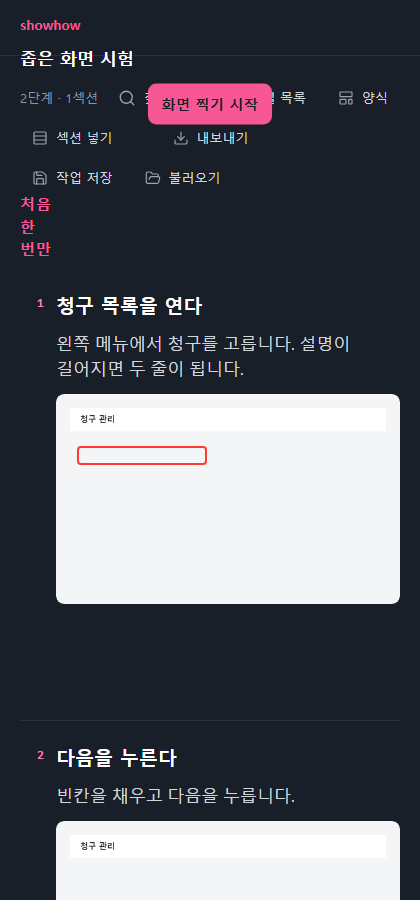
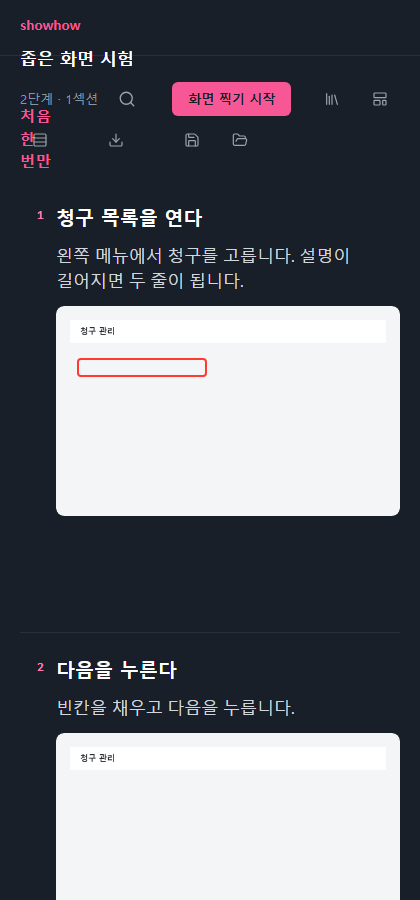
찍기 단추가 화면 가운데 혼자 떠 있던 것을 고쳤다
영웅님 지적: "화면 찍기 시작 저 버튼이 저기 있는게 문젠거 같은데 혼자 동떨어져있음".
글은 왼쪽 축인데 단추만 가운데 축이라 축이 둘이었다(규격 §14).

상태마다 자리를 다르게 두되, 어느 상태에서도 홀로 뜨지 않게 했다.
- 빈 화면: 큰 가운데 단추 그대로. 할 일이 그것 하나뿐이라 주인공이 맞다.
- 단계가 있고 안 찍는 중: 위 줄로 들어간다. 조용한 글자 단추들 사이에서 하나만 채워진다.
- 찍는 중: 딸린 단추가 넷이라 위 줄에 다 못 넣는다. 본문과 같은 축에 얇은 한 줄로 눕힌다.
  채운 단추는 «지금 찍기» 하나뿐이고 «자동 촬영 켜짐»은 점 하나로 상태만 알린다.

세 자리(위 줄 / 목록 머리 / 아래 고정 띠)를 실제로 옮겨 찍어 견주고 골랐다.
아래 띠는 사진을 가려서 탈락했다.

같이 고친 것
- 단추가 하나 늘어 가로 1100px 에서 위 줄이 67px 밀렸다. 좁아지면 이름표부터 접고
  아이콘과 툴팁을 남긴다. 접는 차례는 자주 쓰는 순서의 역순, 찍기 이름표는 끝까지 남는다.
- 키보드로 찍기에 못 닿았다. 검사가 «shoot 이라는 이름의 단추»를 찾고 있었는데
  «보이는 찍기 단추»를 찾도록 고쳤다. 초점 검사도 같은 단추를 재게 했다.

검사 498건 통과 · 실패 없음

diff --git a/index.html b/index.html
@@ -544,6 +544,39 @@
   #helpin dd { font: var(--typography-6-regular); color: var(--colors-label-neutral); }
   #helpin .lead { margin: var(--spacing-6) 0 var(--spacing-5); color: var(--colors-label-assistive); font: var(--typography-7-regular); }
   #findwrap { display: inline-flex; align-items: center; }
+  /* 일을 시작하면 찍기도 다른 동작과 한 줄에 선다. 가운데 혼자 뜬 단추는 축을 하나 더 만든다. */
+  #shoot-top { display: none; }
+  /* 위 줄이 밀리기 시작하면 덜 중요한 이름표부터 접는다. 아이콘과 툴팁은 남는다.
+     접는 차례는 그 단추를 얼마나 자주 쓰는지 순이다 — 찍기 이름표는 끝까지 남긴다. */
+  @media (max-width: 1280px) { #btn-form .lbl, #btn-sec .lbl { display: none; } }
+  @media (max-width: 1140px) { #btn-box .lbl, #btn-out .lbl { display: none; } }
+  @media (max-width: 1040px) { #btn-save .lbl, #btn-open .lbl, #btn-find .lbl { display: none; } }
+  body.working:not(.capturing) #shoot-top {
+    display: inline-flex; margin-left: var(--spacing-4);
+    background: var(--colors-primary-normal); color: var(--colors-label-inverse);
+    font-weight: 600; padding: 0 var(--spacing-4); height: 34px; border-radius: var(--radius-sm);
+  }
+  body.working:not(.capturing) #shoot-top:hover { background: var(--colors-primary-strong, var(--colors-primary-normal)); }
+  body.working:not(.capturing) #shootwrap { display: none; }
+  /* 찍는 중에는 딸린 단추가 넷이라 위 줄에 다 못 넣는다. 얇은 한 줄로 눕힌다. */
+  body.capturing #shootwrap {
+    max-width: var(--read); margin: 0 auto var(--spacing-8);   /* 본문과 같은 축에 선다 */
+    padding: var(--spacing-4) 0;
+    display: flex; align-items: center; gap: var(--spacing-3); flex-wrap: wrap;
+    text-align: left; border-bottom: 1px solid var(--colors-line-normal);
+  }
+  /* 이 줄에서 채운 단추는 «지금 찍기» 하나뿐이다. 켜짐 표시는 상태이지 동작이 아니다. */
+  body.capturing #autowrap .tool.on {
+    background: none; color: var(--colors-label-brand); font-weight: 600;
+  }
+  body.capturing #autowrap .tool.on::before {
+    content: ""; display: inline-block; width: 6px; height: 6px; border-radius: var(--radius-full);
+    background: var(--colors-primary-normal); margin-right: var(--spacing-2); vertical-align: 1px;
+  }
+  body.capturing #shootsub, body.capturing #shootpick { display: none; }
+  body.capturing #shoot { height: 34px; padding: 0 var(--spacing-4); font-size: var(--typography-7-size);
+    border-radius: var(--radius-sm); transform: none; }
+  body.capturing #autowrap { margin-top: 0 !important; }
   #findwrap[hidden] { display: none; }   /* id 로 display 를 못박으면 hidden 속성이 안 먹는다 */
   /* 찾기 줄은 위 줄 아래에 따로 눕는다. 위 줄에 밀어 넣으면 글자끼리 겹친다. */
   #findbar {
@@ -1027,15 +1060,16 @@
   <input id="docname" value="새 매뉴얼" aria-label="매뉴얼 이름">
   <span class="hint" id="counthint"></span>
   <span id="findwrap">
-    <button id="btn-find" class="tbtn" aria-expanded="false" title="단계 찾기 (Ctrl+F)"><svg class="ico" width="18" height="18" viewBox="0 0 24 24" fill="none" stroke="currentColor" stroke-width="1.8" stroke-linecap="round" stroke-linejoin="round" aria-hidden="true"><circle cx="11" cy="11" r="8" /> <path d="m21 21-4.3-4.3" /></svg>찾기</button>
+    <button id="btn-find" class="tbtn" aria-expanded="false" title="단계 찾기 (Ctrl+F)"><svg class="ico" width="18" height="18" viewBox="0 0 24 24" fill="none" stroke="currentColor" stroke-width="1.8" stroke-linecap="round" stroke-linejoin="round" aria-hidden="true"><circle cx="11" cy="11" r="8" /> <path d="m21 21-4.3-4.3" /></svg><span class="lbl">찾기</span></button>
   </span>
+  <button class="tbtn go" id="shoot-top" title="화면 찍기 시작"><span class="lbl">화면 찍기 시작</span></button>
   <span class="grow"></span>
-  <button class="tbtn" id="btn-box"><svg class="ico" width="16" height="16" viewBox="0 0 24 24" fill="none" stroke="currentColor" stroke-width="1.8" stroke-linecap="round" stroke-linejoin="round" aria-hidden="true"><path d="m16 6 4 14" /> <path d="M12 6v14" /> <path d="M8 8v12" /> <path d="M4 4v16" /></svg>매뉴얼 목록</button>
-  <button class="tbtn" id="btn-form"><svg class="ico" width="16" height="16" viewBox="0 0 24 24" fill="none" stroke="currentColor" stroke-width="1.8" stroke-linecap="round" stroke-linejoin="round" aria-hidden="true"><rect width="18" height="7" x="3" y="3" rx="1" /> <rect width="9" height="7" x="3" y="14" rx="1" /> <rect width="5" height="7" x="16" y="14" rx="1" /></svg>양식</button>
-  <button class="tbtn" id="btn-sec"><svg class="ico" width="16" height="16" viewBox="0 0 24 24" fill="none" stroke="currentColor" stroke-width="1.8" stroke-linecap="round" stroke-linejoin="round" aria-hidden="true"><rect width="18" height="18" x="3" y="3" rx="2" /> <path d="M21 9H3" /> <path d="M21 15H3" /></svg>섹션 넣기</button>
+  <button class="tbtn" id="btn-box"><svg class="ico" width="16" height="16" viewBox="0 0 24 24" fill="none" stroke="currentColor" stroke-width="1.8" stroke-linecap="round" stroke-linejoin="round" aria-hidden="true"><path d="m16 6 4 14" /> <path d="M12 6v14" /> <path d="M8 8v12" /> <path d="M4 4v16" /></svg><span class="lbl">매뉴얼 목록</span></button>
+  <button class="tbtn" id="btn-form"><svg class="ico" width="16" height="16" viewBox="0 0 24 24" fill="none" stroke="currentColor" stroke-width="1.8" stroke-linecap="round" stroke-linejoin="round" aria-hidden="true"><rect width="18" height="7" x="3" y="3" rx="1" /> <rect width="9" height="7" x="3" y="14" rx="1" /> <rect width="5" height="7" x="16" y="14" rx="1" /></svg><span class="lbl">양식</span></button>
+  <button class="tbtn" id="btn-sec"><svg class="ico" width="16" height="16" viewBox="0 0 24 24" fill="none" stroke="currentColor" stroke-width="1.8" stroke-linecap="round" stroke-linejoin="round" aria-hidden="true"><rect width="18" height="18" x="3" y="3" rx="2" /> <path d="M21 9H3" /> <path d="M21 15H3" /></svg><span class="lbl">섹션 넣기</span></button>
   <span class="tgap"></span>
   <span class="menuwrap">
-    <button class="tbtn" id="btn-out" aria-haspopup="true" aria-expanded="false"><svg class="ico" width="16" height="16" viewBox="0 0 24 24" fill="none" stroke="currentColor" stroke-width="1.8" stroke-linecap="round" stroke-linejoin="round" aria-hidden="true"><path d="M12 15V3" /> <path d="M21 15v4a2 2 0 0 1-2 2H5a2 2 0 0 1-2-2v-4" /> <path d="m7 10 5 5 5-5" /></svg>내보내기</button>
+    <button class="tbtn" id="btn-out" aria-haspopup="true" aria-expanded="false"><svg class="ico" width="16" height="16" viewBox="0 0 24 24" fill="none" stroke="currentColor" stroke-width="1.8" stroke-linecap="round" stroke-linejoin="round" aria-hidden="true"><path d="M12 15V3" /> <path d="M21 15v4a2 2 0 0 1-2 2H5a2 2 0 0 1-2-2v-4" /> <path d="m7 10 5 5 5-5" /></svg><span class="lbl">내보내기</span></button>
     <div id="outmenu" hidden>
       <button data-out="peek"><svg class="ico" width="18" height="18" viewBox="0 0 24 24" fill="none" stroke="currentColor" stroke-width="1.8" stroke-linecap="round" stroke-linejoin="round" aria-hidden="true"><path d="M2.062 12.348a1 1 0 0 1 0-.696 10.75 10.75 0 0 1 19.876 0 1 1 0 0 1 0 .696 10.75 10.75 0 0 1-19.876 0" /> <circle cx="12" cy="12" r="3" /></svg><span><b>먼저 보기</b><i>«파일 한 장으로» 의 모습을 새 탭에서 미리 봅니다</i></span></button>
       <button data-out="print"><svg class="ico" width="18" height="18" viewBox="0 0 24 24" fill="none" stroke="currentColor" stroke-width="1.8" stroke-linecap="round" stroke-linejoin="round" aria-hidden="true"><path d="M6 22a2 2 0 0 1-2-2V4a2 2 0 0 1 2-2h8a2.4 2.4 0 0 1 1.704.706l3.588 3.588A2.4 2.4 0 0 1 20 8v12a2 2 0 0 1-2 2z" /> <path d="M14 2v5a1 1 0 0 0 1 1h5" /> <path d="M10 9H8" /> <path d="M16 13H8" /> <path d="M16 17H8" /></svg><span><b>PDF로 저장</b><i>인쇄 창이 열립니다 — 거기서 «PDF로 저장»을 고르세요</i></span></button>
@@ -1047,8 +1081,8 @@
     </div>
   </span>
   <span class="tgap"></span>
-  <button class="tbtn" id="btn-save"><svg class="ico" width="16" height="16" viewBox="0 0 24 24" fill="none" stroke="currentColor" stroke-width="1.8" stroke-linecap="round" stroke-linejoin="round" aria-hidden="true"><path d="M15.2 3a2 2 0 0 1 1.4.6l3.8 3.8a2 2 0 0 1 .6 1.4V19a2 2 0 0 1-2 2H5a2 2 0 0 1-2-2V5a2 2 0 0 1 2-2z" /> <path d="M17 21v-7a1 1 0 0 0-1-1H8a1 1 0 0 0-1 1v7" /> <path d="M7 3v4a1 1 0 0 0 1 1h7" /></svg>작업 저장</button>
-  <button class="tbtn" id="btn-open"><svg class="ico" width="16" height="16" viewBox="0 0 24 24" fill="none" stroke="currentColor" stroke-width="1.8" stroke-linecap="round" stroke-linejoin="round" aria-hidden="true"><path d="m6 14 1.5-2.9A2 2 0 0 1 9.24 10H20a2 2 0 0 1 1.94 2.5l-1.54 6a2 2 0 0 1-1.95 1.5H4a2 2 0 0 1-2-2V5a2 2 0 0 1 2-2h3.9a2 2 0 0 1 1.69.9l.81 1.2a2 2 0 0 0 1.67.9H18a2 2 0 0 1 2 2v2" /></svg>불러오기</button>
+  <button class="tbtn" id="btn-save"><svg class="ico" width="16" height="16" viewBox="0 0 24 24" fill="none" stroke="currentColor" stroke-width="1.8" stroke-linecap="round" stroke-linejoin="round" aria-hidden="true"><path d="M15.2 3a2 2 0 0 1 1.4.6l3.8 3.8a2 2 0 0 1 .6 1.4V19a2 2 0 0 1-2 2H5a2 2 0 0 1-2-2V5a2 2 0 0 1 2-2z" /> <path d="M17 21v-7a1 1 0 0 0-1-1H8a1 1 0 0 0-1 1v7" /> <path d="M7 3v4a1 1 0 0 0 1 1h7" /></svg><span class="lbl">작업 저장</span></button>
+  <button class="tbtn" id="btn-open"><svg class="ico" width="16" height="16" viewBox="0 0 24 24" fill="none" stroke="currentColor" stroke-width="1.8" stroke-linecap="round" stroke-linejoin="round" aria-hidden="true"><path d="m6 14 1.5-2.9A2 2 0 0 1 9.24 10H20a2 2 0 0 1 1.94 2.5l-1.54 6a2 2 0 0 1-1.95 1.5H4a2 2 0 0 1-2-2V5a2 2 0 0 1 2-2h3.9a2 2 0 0 1 1.69.9l.81 1.2a2 2 0 0 0 1.67.9H18a2 2 0 0 1 2 2v2" /></svg><span class="lbl">불러오기</span></button>
 </div>
 
 <div id="cover">
@@ -1314,7 +1348,9 @@ function shareEnded() {
   $("#autowrap").style.display = "none";
   $("#side").classList.remove("on");
   document.body.classList.remove("sideon");
+  document.body.classList.remove("capturing");
   $("#shoot").textContent = "화면 찍기 시작";
+  $("#shoot-top").textContent = "화면 찍기 시작";
   $("#shootsub").innerHTML = "화면 공유가 끝났습니다. 다시 시작할 수 있습니다.";
   paintTitle();
   say("화면 공유 종료됨");
@@ -1533,6 +1569,7 @@ async function shoot() {
     $("#autowrap").style.display = "flex";
     $("#side").classList.add("on");
     document.body.classList.add("sideon");
+    document.body.classList.add("capturing");
     watchStart(); renderSide();
     return;
   }
@@ -3751,6 +3788,7 @@ $("#forminput").onchange = e => {
 
 /* ── 배선 ── */
 $("#shoot").onclick = shoot;
+$("#shoot-top").onclick = shoot;      // 같은 일을 하는 같은 단추다
 $("#autobtn").onclick = () => {
   if (WATCH.on) { watchStop(); say("자동 촬영을 껐습니다 — 이제 직접 찍으세요"); }
   else { watchStart(); say("자동 촬영을 켰습니다"); }

diff --git a/tests/검사_브라우저_손쉬움.js b/tests/검사_브라우저_손쉬움.js
@@ -46,15 +46,20 @@
     reach.push(...all.map(el => el.id || el.className || el.tagName));
     break;
   }
-  const want = ["shoot", "btn-out", "btn-box", "btn-form", "btn-save", "docname"];
+  const want = ["btn-out", "btn-box", "btn-form", "btn-save", "docname"];
   const missing = want.filter(id => !reach.includes(id));
-  ok("주요 손잡이에 탭으로 닿는다", missing.length === 0, missing.length ? "못 닿음: " + missing.join(", ") : want.length + "개 확인");
+  // 찍기 단추는 자리를 옮겼다(빈 화면은 가운데, 일하는 중에는 위 줄). 어느 쪽이든 **보이고** 닿아야 한다.
+  const 찍기 = ["shoot", "shoot-top"].filter(id => reach.includes(id));
+  if (!찍기.length) missing.push("찍기(shoot / shoot-top 둘 다 못 닿음)");
+  ok("주요 손잡이에 탭으로 닿는다", missing.length === 0,
+     missing.length ? "못 닿음: " + missing.join(", ") : (want.length + 1) + "개 확인 · 찍기=" + 찍기.join(","));
 
   // ⑤ 초점이 눈에 보이는가
-  $("#shoot").focus();
-  const fs = getComputedStyle($("#shoot"));
+  const 찍기단추 = $("#shoot").offsetParent ? $("#shoot") : $("#shoot-top");
+  찍기단추.focus();
+  const fs = getComputedStyle(찍기단추);          // 초점을 준 그 단추를 잰다
   const seen = fs.outlineStyle !== "none" || fs.boxShadow !== "none" ||
-               getComputedStyle($("#shoot"), ":focus-visible").outlineStyle !== "none";
+               getComputedStyle(찍기단추, ":focus-visible").outlineStyle !== "none";
   ok("초점이 어디 있는지 보인다", seen, "테두리 " + fs.outlineStyle + " · 그림자 " + (fs.boxShadow !== "none" ? "있음" : "없음"));
 
   // ⑥ 글자와 바탕의 밝기 차 (읽을 수 있는가)
